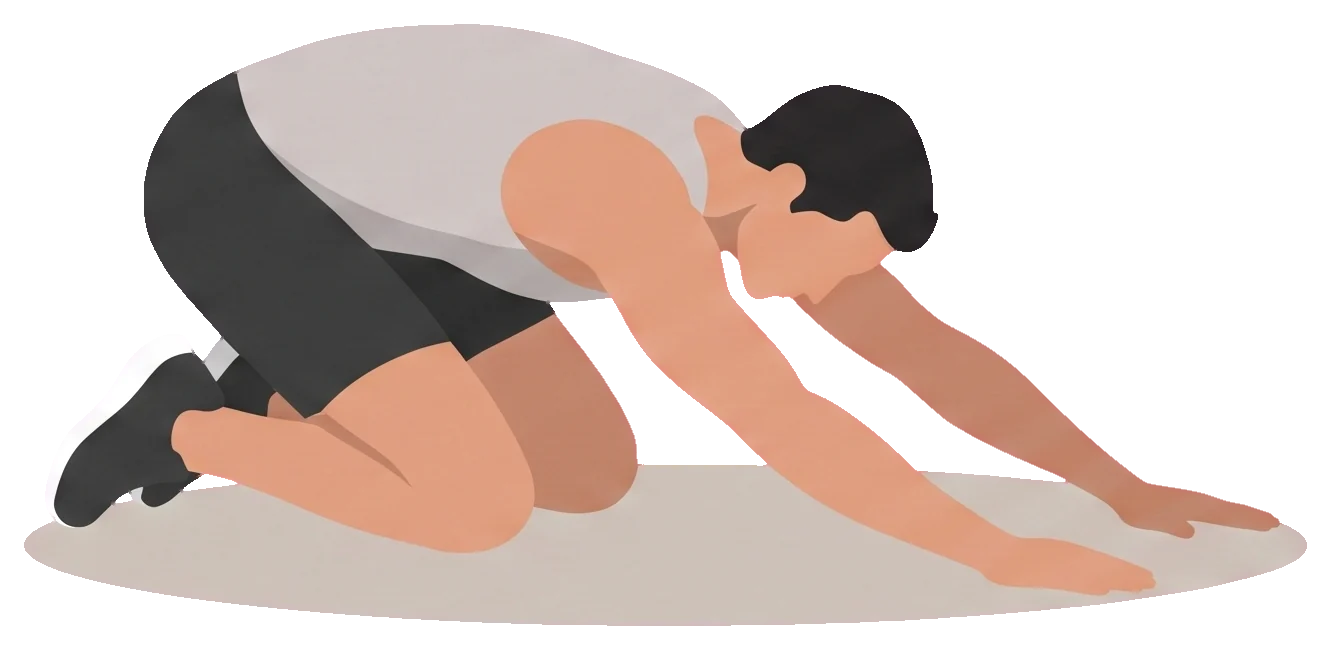
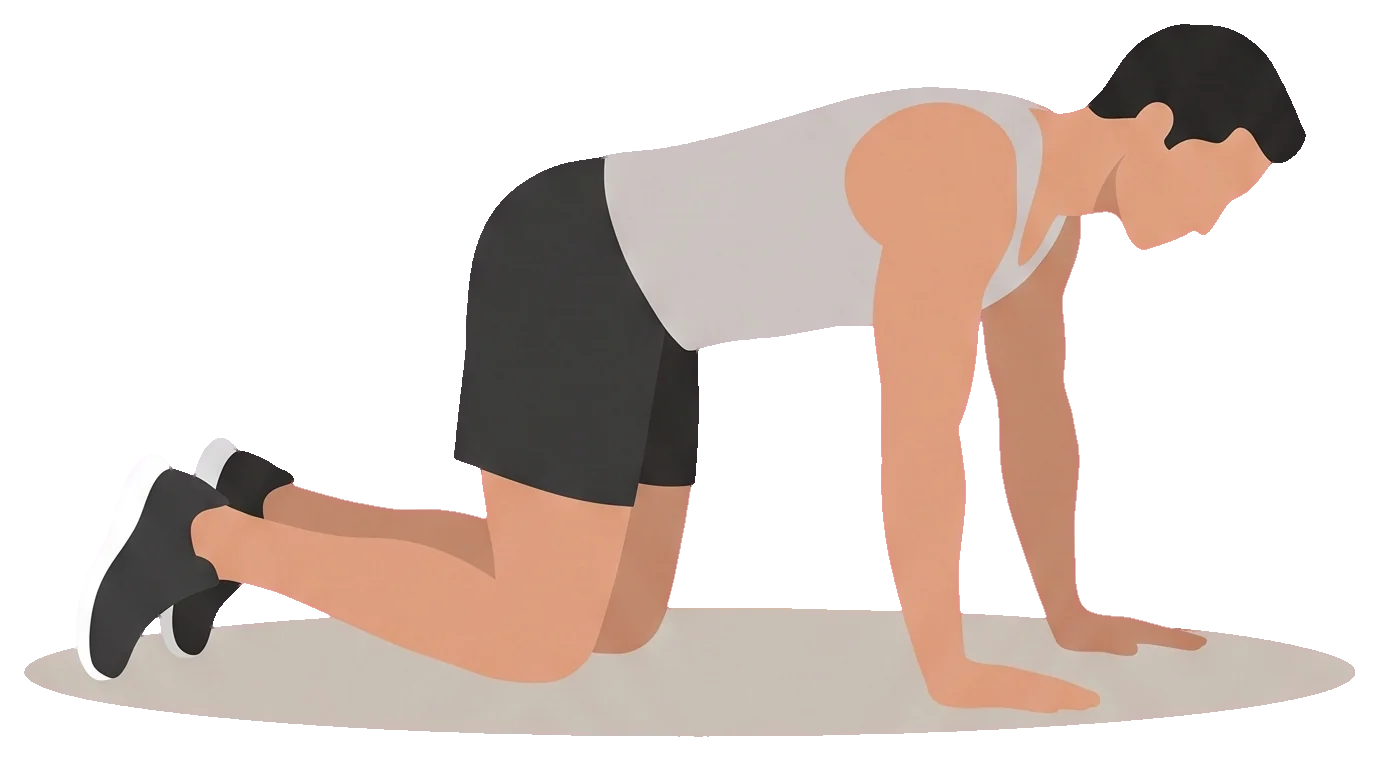
fix(player): say what the minute is, show the drill the cue teaches
Three catches from his first EMOM40-era sessions:

- The start cue said "hold" on every timed step — right for a plank, wrong
  for a hip-rotation burn set, absurd for jumping jacks. The word now
  follows the phase: GO for work and cardio minutes, HOLD only for true
  isometrics and stretches.
- The t-spine reach art showed a thread-the-needle (hand UNDER the chest,
  rotating down) while the cue teaches the opposite — all fours, arm swept
  UP, eyes following the hand. Prompt rewritten, art regenerated, pose
  verified against the cue.
- Seated good morning got its real illustration (flat-back seated hinge —
  took three prompt passes to beat the model's slouch reflex), and the
  back-extension cue now names the no-Roman-chair setup he owns: hips on
  the bench end, ankles hooked under the low-racked bar.

diff --git a/src/main.js b/src/main.js
@@ -2494,9 +2494,19 @@ function rhAnnounceStep(step) {
       const sideBit = step.side ? `${step.side.toLowerCase()} side — ` : '';
       rhCueSay(parts, `${sideBit}hold. ${step.setNum} of ${step.setTotal}.`);
     } else {
+      // SAY WHAT THE MINUTE IS (2026-08-11, his catch): a burn set or an
+      // EMOM station starts with GO; only true isometrics (HOLD) and
+      // stretches (BREATHE) start with HOLD. Every timed step used to say
+      // "hold" — wrong the moment the daily gained WORK-phase burn sets.
+      const word =
+        step.phase === 'HOLD' || step.phase === 'BREATHE' ? 'hold' : 'go';
       rhCueSay(
-        step.side ? [`${step.side.toLowerCase()}-side`, 'hold'] : ['hold'],
-        step.side ? `${step.side.toLowerCase()} side — hold` : 'Hold',
+        step.side ? [`${step.side.toLowerCase()}-side`, word] : [word],
+        step.side
+          ? `${step.side.toLowerCase()} side — ${word}`
+          : word === 'go'
+            ? 'Go'
+            : 'Hold',
       );
     }
   } else if (step.phase === 'SWITCH SIDES') {

diff --git a/src/workout/rehab.js b/src/workout/rehab.js
@@ -291,7 +291,7 @@ export const REHAB_EXERCISES = {
     name: 'Back Extension',
     feel: 'Low back and glutes working together, all the way through',
     avoid: 'Hyperextending past straight at the top',
-    cue: 'Hips at the pad, spine long. Lower under control, lift to straight — never past it. No chair? Lie face down and hold.',
+    cue: 'Hips at the pad, spine long. Lower under control, lift to straight — never past it. No chair? Hips on the bench end, ankles hooked under the low-racked bar. Simplest: lie face down and hold.',
     why: 'The single biggest lever on a back that hurts: extensors with real endurance.',
     scale:
       'Easier: isometric hold · Harder: reps → + vest → single-leg hold → single-leg reps',
